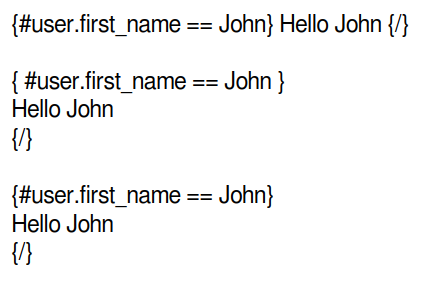
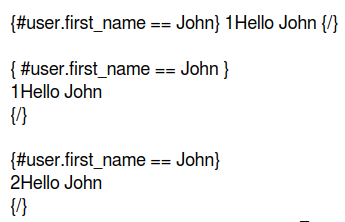
fix inline and block conditionals, update read.me images

diff --git a/dist/esm/index.js b/dist/esm/index.js
@@ -44,7 +44,7 @@ export class OdtTemplater {
      * @param data The object containing the placeholder values.
      */
     _processInlineConditionals(data) {
-        const conditionRegex = /\{\s*#([^\\{}]+?)\s*==\s*(.*?)\s*\}((?:(?!text:p)[\s\S])*?)\{\/\}/gs;
+        const conditionRegex = /\{\s*#([^\\{}]+?)\s*==\s*([^\\{}]+?)\s*\}((?:(?!text:p)[\s\S])*?)\{\/\}/gs;
         this.contentXml = this.contentXml.replace(conditionRegex, (_match, key, value, content) => {
             const actualValue = this._getValueFromPath(data, key);
             return actualValue?.toString() === value ? content : "";
@@ -72,7 +72,7 @@ export class OdtTemplater {
      * @param data The object containing the placeholder values.
      */
     _processBlockConditionals(data) {
-        const blockConditionRegex = /<text:p(?:(?!<text:p)[\s\S])*?\{\s*#(.*?)\s*==\s*(.*?)\s*\}<.*?\/text:p>(<text:p[\s\S]*?)<text:p(?:(?!<text:p)[\s\S])*?\{\/\}.*?<\/text:p>/gs;
+        const blockConditionRegex = /<text:p(?:(?!<text:p)[\s\S])*?\{\s*#([^\\{}]+?)\s*==\s*([^\\{}]+?)\s*\}\s*<.*?\/text:p>(<text:p[\s\S]*?)<text:p(?:(?!<text:p)[\s\S])*?\{\/\}.*?<\/text:p>/gs;
         this.contentXml = this.contentXml.replace(blockConditionRegex, (_match, key, value, content) => {
             const actualValue = this._getValueFromPath(data, key);
             return actualValue?.toString() === value ? content : "";
@@ -88,7 +88,7 @@ export class OdtTemplater {
      * @param data The object containing the placeholder values.
      */
     _processEmptyBlockConditionals(data) {
-        const emptyConditionRegex = /<text:p(?:(?!<text:p)[\s\S])*?\{\s*#(.*?)\s*\}<.*?\/text:p>(<text:p[\s\S]*?)<text:p(?:(?!<text:p)[\s\S])*?\{\/\}.*?<\/text:p>/gs;
+        const emptyConditionRegex = /<text:p(?:(?!<text:p)[\s\S])*?\{\s*#([^\\{}]+?)\s*\}\s*<.*?\/text:p>(<text:p[\s\S]*?)<text:p(?:(?!<text:p)[\s\S])*?\{\/\}.*?<\/text:p>/gs;
         this.contentXml = this.contentXml.replace(emptyConditionRegex, (_match, key, content) => {
             const actualValue = this._getValueFromPath(data, key);
             return actualValue !== null && actualValue !== undefined && actualValue !== "" && actualValue !== false ? content : "";

diff --git a/src/index.ts b/src/index.ts
@@ -49,7 +49,7 @@ export class OdtTemplater {
    * @param data The object containing the placeholder values.
    */
   private _processInlineConditionals(data: { [key: string]: any }): void {
-    const conditionRegex = /\{\s*#([^\\{}]+?)\s*==\s*(.*?)\s*\}((?:(?!text:p)[\s\S])*?)\{\/\}/gs;
+    const conditionRegex = /\{\s*#([^\\{}]+?)\s*==\s*([^\\{}]+?)\s*\}((?:(?!text:p)[\s\S])*?)\{\/\}/gs;
     this.contentXml = this.contentXml.replace(conditionRegex, (_match, key: string, value: string, content: string): string => {
       const actualValue = this._getValueFromPath(data, key);
       return actualValue?.toString() === value ? content : "";
@@ -80,7 +80,7 @@ export class OdtTemplater {
    */
   private _processBlockConditionals(data: { [key: string]: any }): void {
     const blockConditionRegex =
-      /<text:p(?:(?!<text:p)[\s\S])*?\{\s*#(.*?)\s*==\s*(.*?)\s*\}<.*?\/text:p>(<text:p[\s\S]*?)<text:p(?:(?!<text:p)[\s\S])*?\{\/\}.*?<\/text:p>/gs;
+      /<text:p(?:(?!<text:p)[\s\S])*?\{\s*#([^\\{}]+?)\s*==\s*([^\\{}]+?)\s*\}\s*<.*?\/text:p>(<text:p[\s\S]*?)<text:p(?:(?!<text:p)[\s\S])*?\{\/\}.*?<\/text:p>/gs;
     this.contentXml = this.contentXml.replace(blockConditionRegex, (_match, key: string, value: string, content: string): string => {
       const actualValue = this._getValueFromPath(data, key);
       return actualValue?.toString() === value ? content : "";
@@ -98,7 +98,7 @@ export class OdtTemplater {
    */
   private _processEmptyBlockConditionals(data: { [key: string]: any }): void {
     const emptyConditionRegex =
-      /<text:p(?:(?!<text:p)[\s\S])*?\{\s*#(.*?)\s*\}<.*?\/text:p>(<text:p[\s\S]*?)<text:p(?:(?!<text:p)[\s\S])*?\{\/\}.*?<\/text:p>/gs;
+      /<text:p(?:(?!<text:p)[\s\S])*?\{\s*#([^\\{}]+?)\s*\}\s*<.*?\/text:p>(<text:p[\s\S]*?)<text:p(?:(?!<text:p)[\s\S])*?\{\/\}.*?<\/text:p>/gs;
     this.contentXml = this.contentXml.replace(emptyConditionRegex, (_match, key: string, content: string): string => {
       const actualValue = this._getValueFromPath(data, key);
       return actualValue !== null && actualValue !== undefined && actualValue !== "" && actualValue !== false ? content : "";

diff --git a/README.md b/README.md
@@ -130,8 +130,6 @@ Result:
 
 Conditions are defined with curly braces, a hash mark, the key being checked, a double equal sign, and the value being compared.
 
-Example:
-
 - {#key == value} ... {/}
 - {#key.key == value} ... {/}
 - { #key == value } ... {/}
